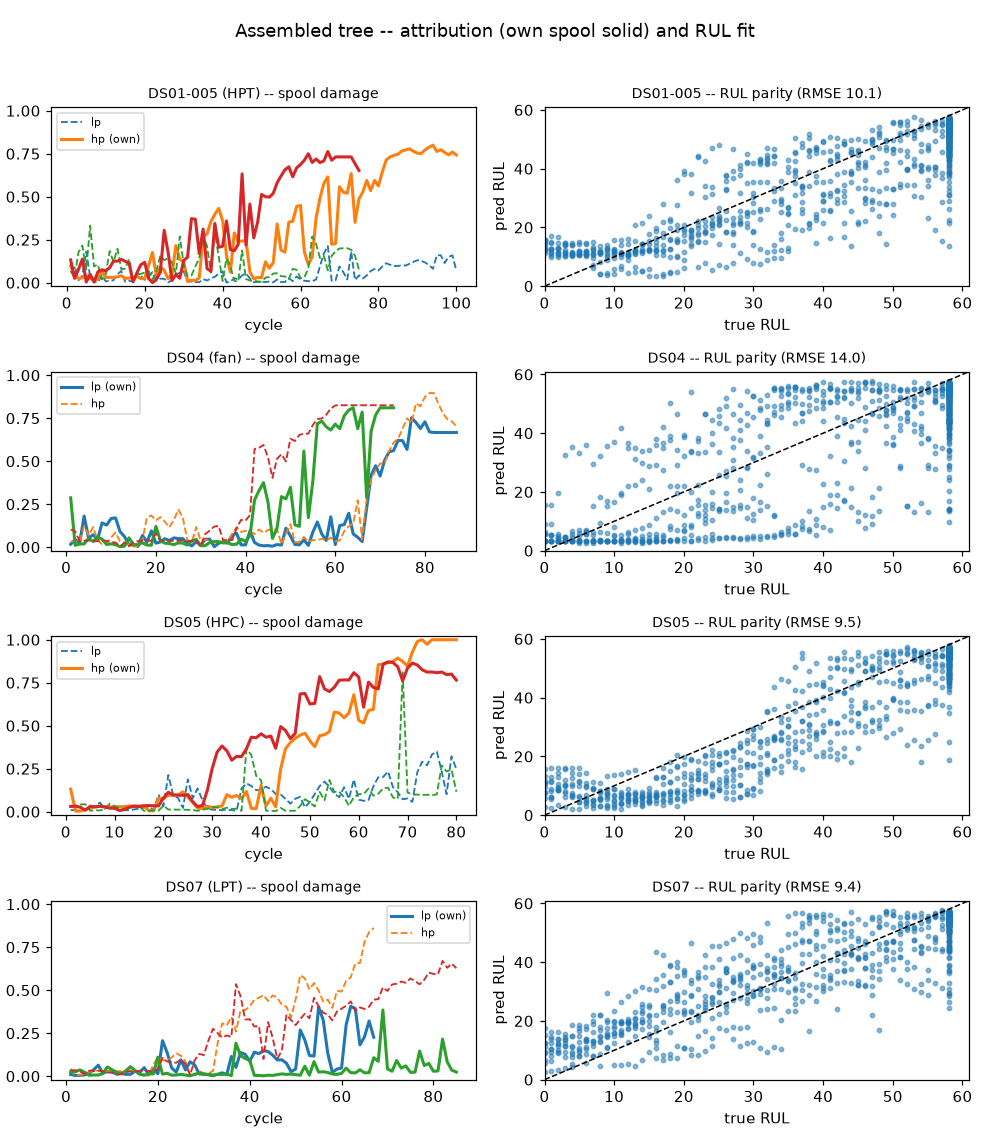
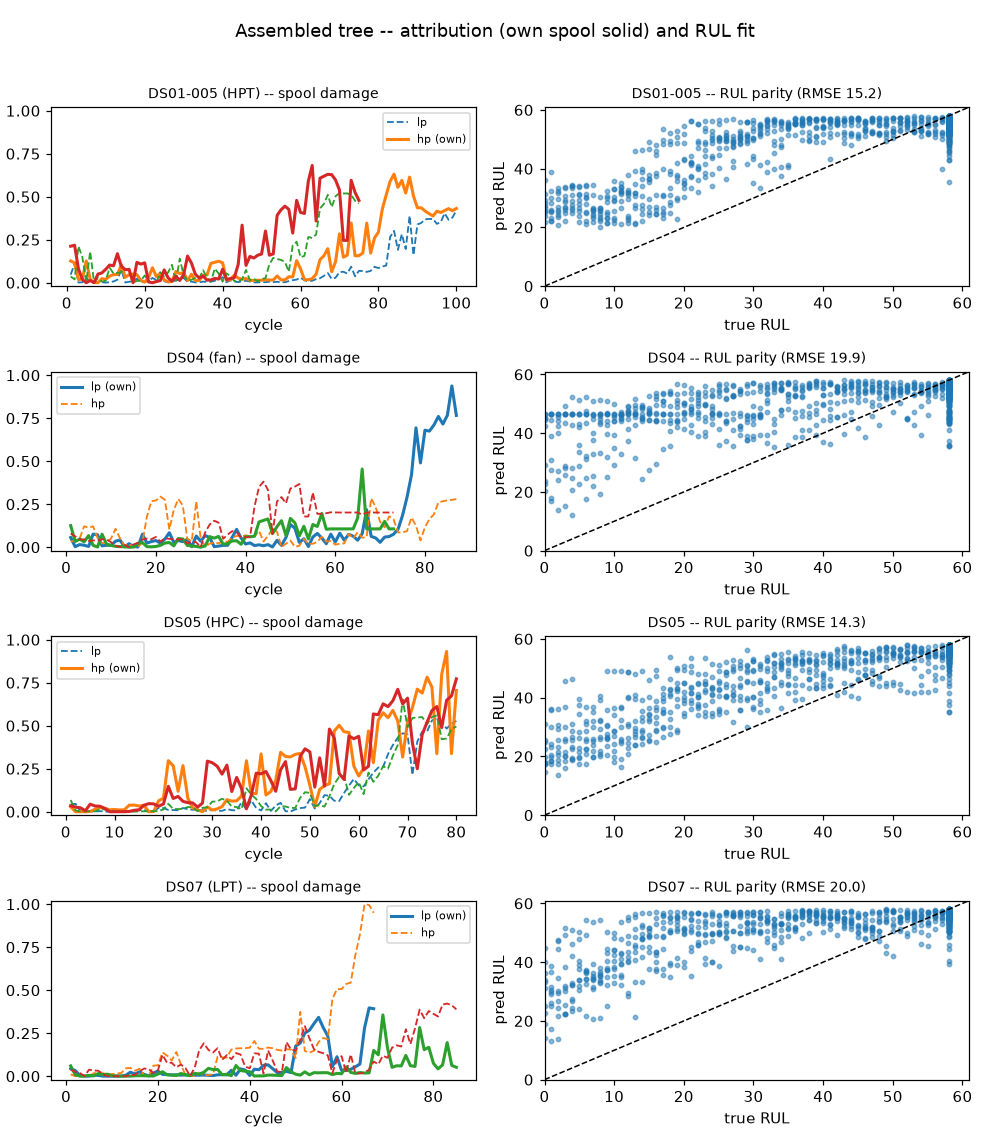
update

diff --git a/gft.py b/gft.py
@@ -39,7 +39,7 @@ from features import (SENSORS, CONDITIONS, COMPONENTS, SHAFT, THETA,
 N_TERMS = 3            # fuzzy sets per input (low/mid/high)
 EWMA_SPAN = 7          # causal smoothing window on residualized sensors
 HEALTHY_FRAC = 0.2     # first fraction of a unit's life used to fit its baseline
-W_THETA = 3.0          # leaf supervision weight -- raised from 1.0: with 10 leaves
+W_THETA = 1.5          # leaf supervision weight -- raised from 1.0: with 10 leaves
                        # the averaged theta term was out-competed by the single RUL
                        # term, so the GA sacrificed leaf fidelity (negative theta R2)
                        # to fit RUL. 3x restores leaf leverage without ignoring RUL.

diff --git a/run_full.py b/run_full.py
@@ -6,7 +6,7 @@ train  = [d for d in pooled.ds.unique() if d.startswith("DS08")]
 
 full = ablation.train_full(
     pooled, leaves, train_ds=train,
-    gens=400, pop=120, seed=0,          # see notes below
+    gens=300, pop=120, seed=0,          # see notes below
     branch_models=None,                  # warm-start optional; see note 3
 )
 
